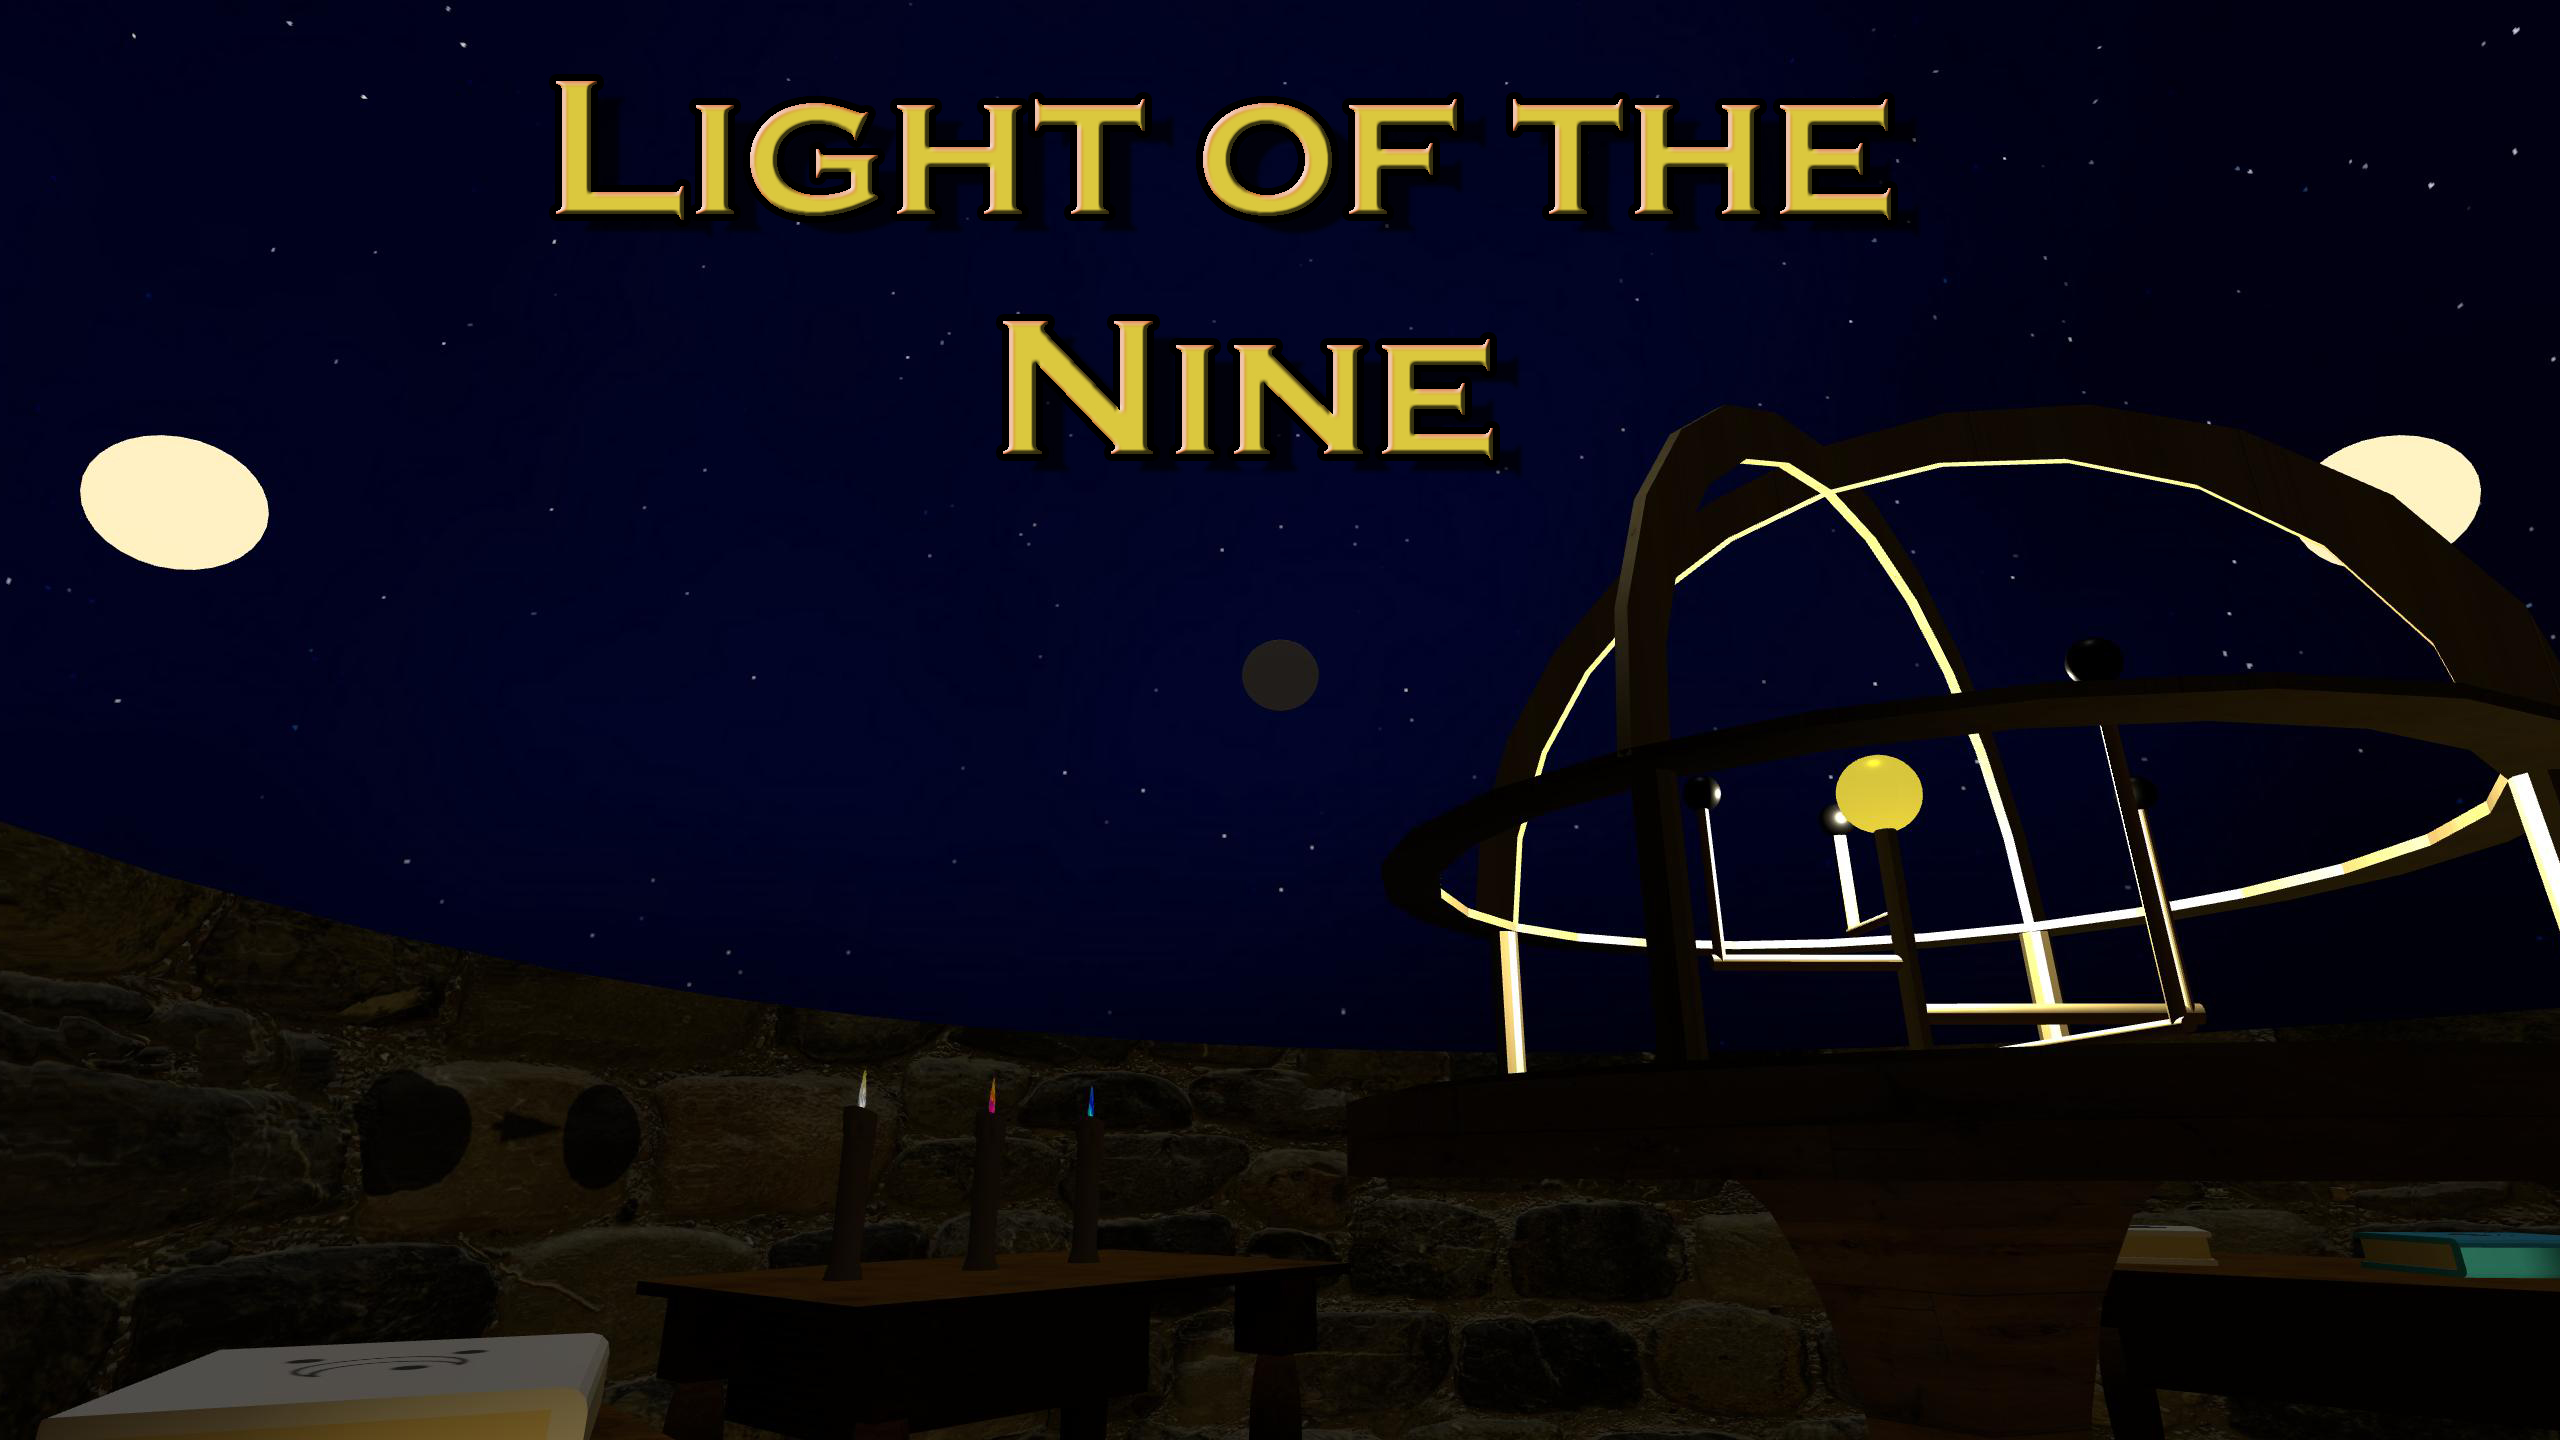
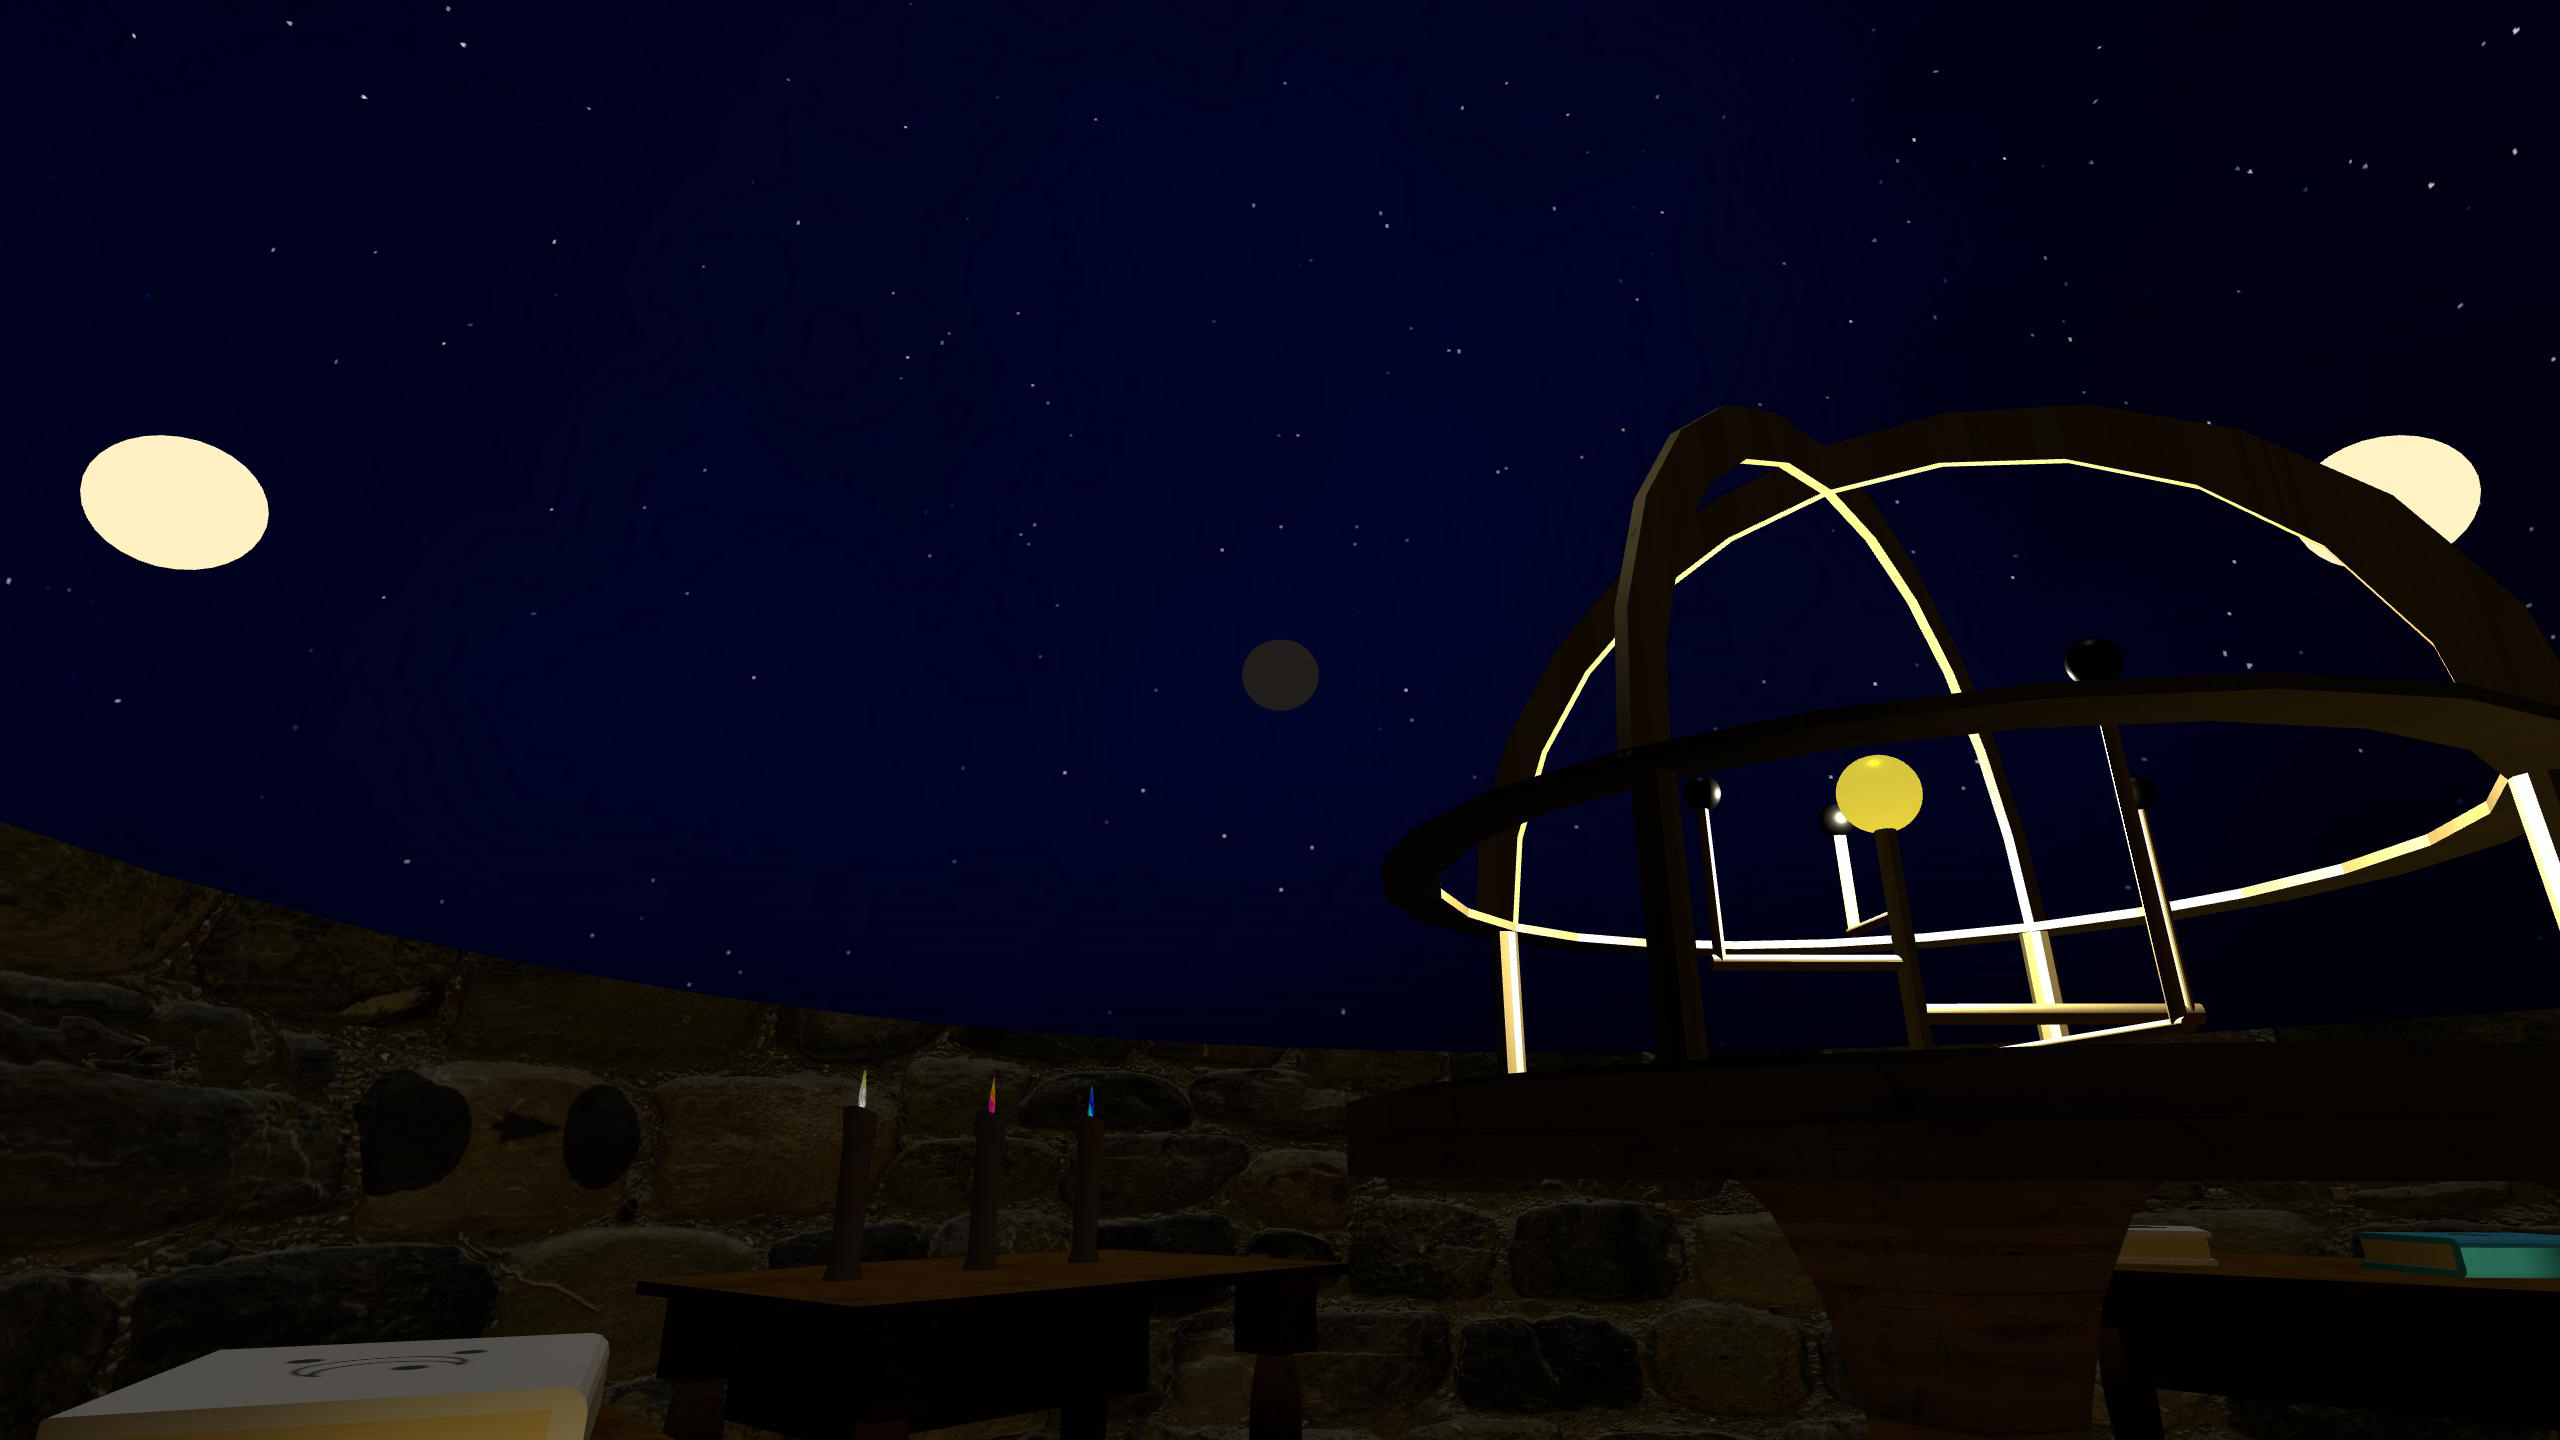
update images

Changed region(s): [[0.2188, 0.0312, 0.75, 0.1562], [0.375, 0.2188, 0.5938, 0.3438]]

diff --git a/index.html b/index.html
@@ -7,70 +7,102 @@
 
 <style>
     body {
-        margin: 0;
-        font-family: Arial, sans-serif;
-        background: #111;
-        color: #eee;
-        line-height: 1.6;
-    }
+    margin: 0;
+    font-family: Arial, sans-serif;
+    background: #111;
+    color: #eee;
+    line-height: 1.6;
+}
 
+/* --- Banner with overlay title --- */
+.banner {
+    position: relative;
+    width: 100%;
+    height: 380px;
+    overflow: hidden;
+}
+
+.banner img {
+    width: 100%;
+    height: 100%;
+    object-fit: cover;
+    object-position: center top; /* important si ton logo est en haut */
+    filter: brightness(70%); /* rend le texte lisible */
+}
+
+/* Title on top of banner */
+.banner-title {
+    position: absolute;
+    top: 50%;
+    width: 100%;
+    text-align: center;
+    transform: translateY(-50%);
+    color: #fff;
+    font-size: 3rem;
+    font-weight: bold;
+    text-shadow: 0 0 10px rgba(255, 255, 255, 0.6),
+                 0 0 20px rgba(0, 150, 255, 0.6);
+}
+
+/* Container */
+.container {
+    max-width: 900px;
+    margin: 40px auto;
+    padding: 0 20px;
+}
+
+h2 {
+    margin-top: 40px;
+}
+
+/* Gallery */
+.gallery {
+    display: grid;
+    grid-template-columns: repeat(auto-fit, minmax(250px, 1fr));
+    gap: 20px;
+    margin-top: 30px;
+}
+
+.gallery img {
+    width: 100%;
+    border-radius: 8px;
+    display: block;
+}
+
+/* Button */
+.btn {
+    display: inline-block;
+    margin-top: 25px;
+    background: #2c2c2c;
+    padding: 12px 20px;
+    border-radius: 6px;
+    color: #fff;
+    text-decoration: none;
+    font-weight: bold;
+    transition: 0.2s;
+}
+
+.btn:hover {
+    background: #444;
+}
+
+/* Footer */
+footer {
+    text-align: center;
+    padding: 30px;
+    color: #777;
+}
+
+/* Mobile optimizations */
+@media (max-width: 600px) {
+    .banner-title {
+        font-size: 2rem;
+    }
     .banner {
-        width: 100%;
-        max-height: 400px;
-        overflow: hidden;
+        height: 260px;
     }
+}
 
-    .banner img {
-        width: 100%;
-        display: block;
-    }
-
-    .container {
-        max-width: 900px;
-        margin: 40px auto;
-        padding: 0 20px;
-    }
-
-    h1 {
-        text-align: center;
-        margin-top: 0;
-        font-size: 2.4rem;
-    }
-
-    .gallery {
-        display: grid;
-        grid-template-columns: repeat(auto-fit, minmax(250px, 1fr));
-        gap: 20px;
-        margin-top: 30px;
-    }
-
-    .gallery img {
-        width: 100%;
-        border-radius: 8px;
-        display: block;
-    }
-
-    .btn {
-        display: inline-block;
-        margin-top: 25px;
-        background: #444;
-        padding: 12px 20px;
-        border-radius: 6px;
-        color: #fff;
-        text-decoration: none;
-        font-weight: bold;
-        transition: 0.2s;
-    }
-
-    .btn:hover {
-        background: #666;
-    }
-
-    footer {
-        text-align: center;
-        padding: 30px;
-        color: #777;
-    }
 </style>
 </head>
 
@@ -79,7 +111,9 @@
 <!-- Banner -->
 <div class="banner">
     <img src="Img/lotn2560x1440.jpg" alt="Light of the Nine Banner">
+    <div class="banner-title">Light of the Nine</div>
 </div>
+
 
 <div class="container">
     <h1>Light of the Nine</h1>
@@ -97,6 +131,7 @@
         <img src="Img/LotnScreenShot1.png" alt="Screenshot 2">
         <img src="Img/LotnScreenShot2.png" alt="Screenshot 3">
         <img src="Img/LotnScreenShot3.png" alt="Screenshot 4">
+		<img src="Img/LotnScreenShot4.png" alt="Screenshot 5">
     </div>
 </div>
 
